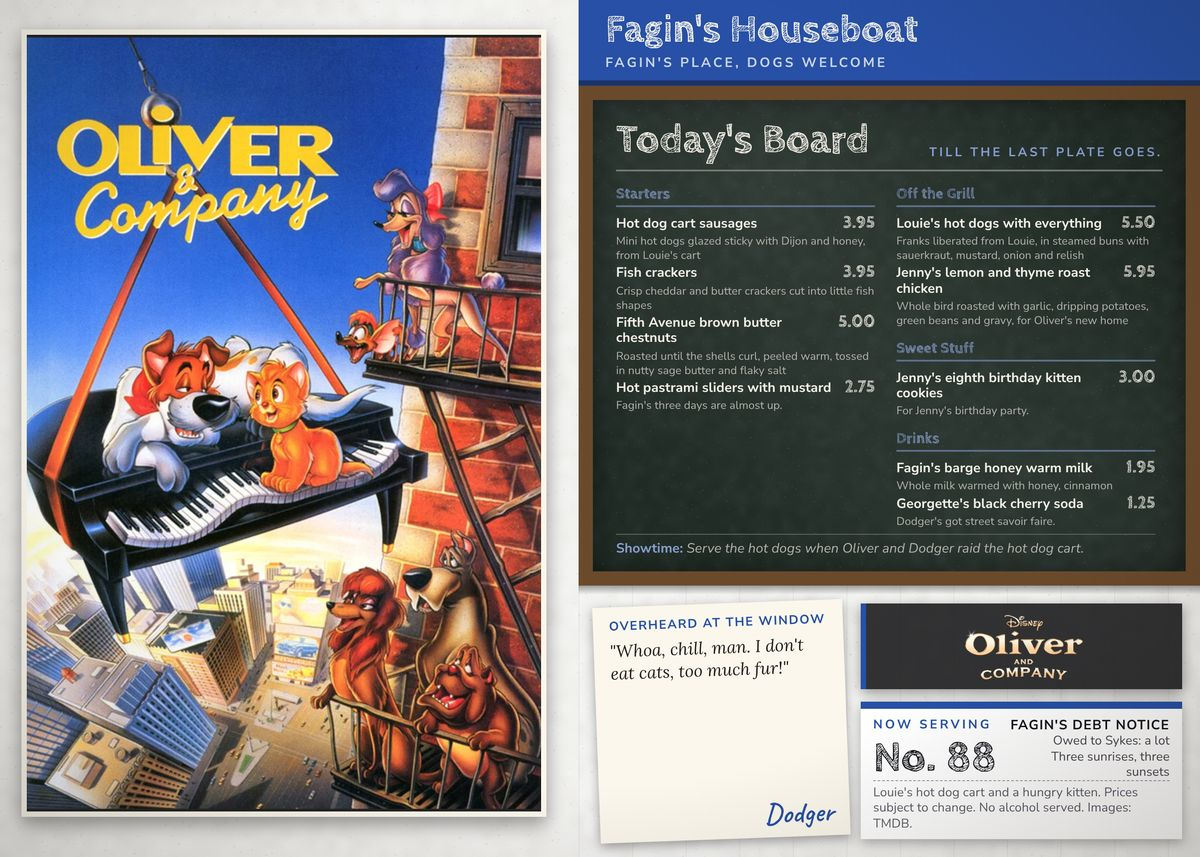
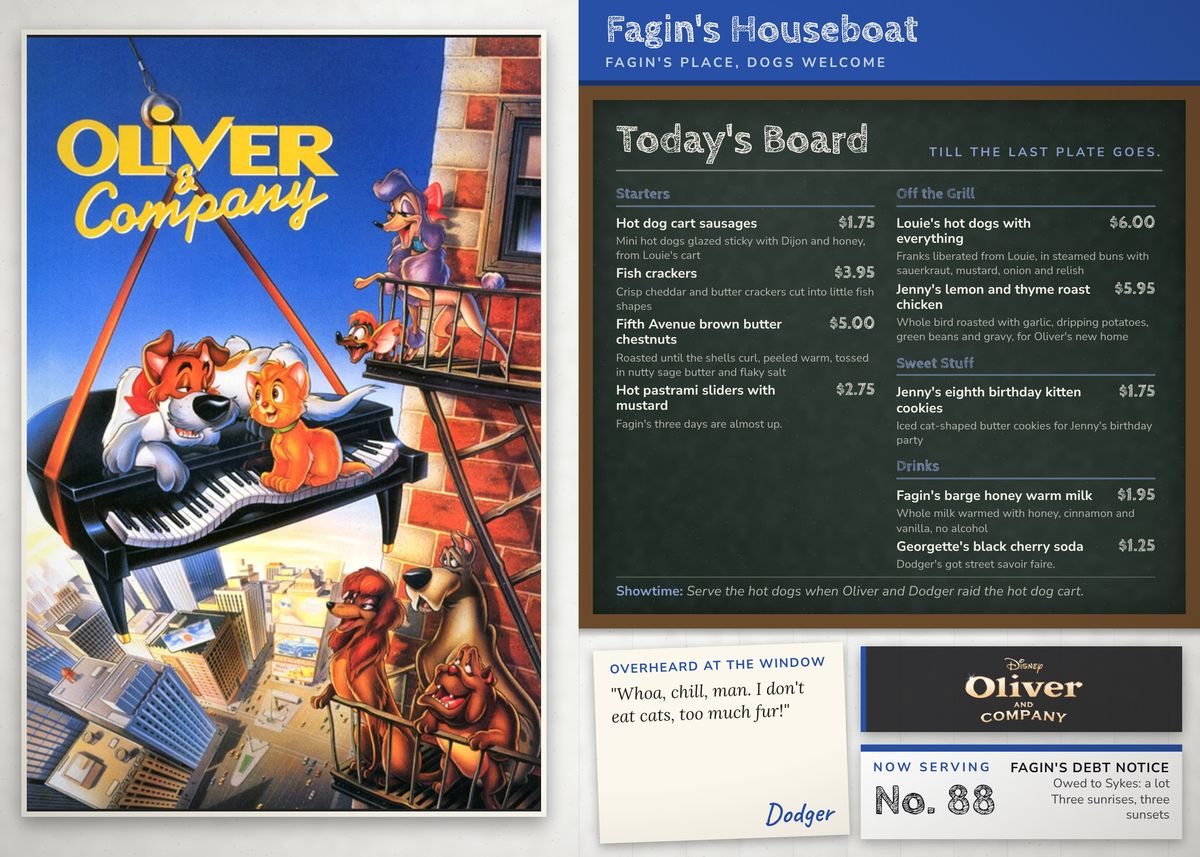
Review 32: truck board prints full notes
Claude-Session: https://claude.ai/code/session_01W3UAnF3374TxihYSznsWKE

Changed region(s): [[0.4625, 0.2427, 1.0, 0.9708], [0.6783, 0.2427, 0.7092, 0.273]]

diff --git a/menu-formats/truck.js b/menu-formats/truck.js
@@ -122,7 +122,7 @@ window.MENU_FORMATS[ID]=ctx=>{
     <div style="position:absolute;left:${PXL}px;top:${PTOP}px;width:${PWI}px;height:${PHI}px;border:${PB}px solid ${darkTruck?"#e9e5d8":"#fbf7ec"};background:#222;overflow:hidden;box-shadow:0 8px 20px rgba(0,0,0,.4)">${heroSrc?(posSrc?`<img src="${posSrc}" crossorigin="anonymous" alt="" style="position:absolute;inset:0;width:100%;height:100%;object-fit:contain;display:block">${t.shine||ei>=6?`<div style="position:absolute;inset:0;background:linear-gradient(125deg,rgba(255,255,255,.16) 0%,rgba(255,255,255,0) 38%)"></div>`:""}`:photo(heroSrc,pf,"center 40%",overlay())):""}</div></div>`;
 
   /* right: the board (signature) */
-  const RX=HX,boardH=560;
+  const RX=HX;let boardH=560;
   const C=[["s",e.cols[0]],["m",e.cols[1]],["w",e.cols[2]],["d",fl.drinksHeading||e.cols[3]]].filter(([k])=>(ctx.menu[k]||[]).length);
   const items={};C.forEach(([k])=>items[k]=(ctx.menu[k]||[]).slice(0,4));
   const pr=prices(items,e,ei,egg);
@@ -130,8 +130,9 @@ window.MENU_FORMATS[ID]=ctx=>{
   const CWall=RW-2*fw-2*pad-8,colGap=24,mTop=96;
   /* the showtime cue, a short line along the foot of the board (8 Nov: truck never printed it) */
   const cue=tx(f.P||"").trim(),cueN=cue?Math.min(2,wrapLines("Showtime: "+cue,15,CWall,e.cw)):0,cueH=cueN?cueN*15*1.3+12:0;
-  const menuH=boardH-2*fw-mTop-18-cueH;
-  const tiers=[{d:30,n:21,g:16,h:34,nl:2},{d:28,n:20,g:14,h:32,nl:2},{d:26,n:19,g:12,h:30,nl:2},{d:24,n:18,g:10,h:27,nl:1},{d:22,n:17,g:8,h:25,nl:1},{d:20,n:15,g:6,h:22,nl:1},{d:19,n:14,g:5,h:21,nl:1},{d:18,n:14,g:4,h:20,nl:1},{d:17,n:13,g:3,h:19,nl:1},{d:17,n:13,g:2,h:19,nl:1,sh:1},{d:16,n:13,g:2,h:18,nl:1,sh:1},{d:15,n:12.5,g:1,h:17,nl:1,sh:1},{d:20,n:15,g:6,h:22,nl:0},{d:18,n:14,g:4,h:20,nl:0},{d:16,n:14,g:3,h:18,nl:0}];
+  let menuH=boardH-2*fw-mTop-18-cueH;
+  /* review 32 (Josh: room for full notes): whole notes (up to four lines) are tried at every size before the two and one-line tiers */
+  const tiers=[...[[30,21,16,34],[28,20,14,32],[26,19,12,30],[24,18,10,27],[22,17,8,25],[20,15,6,22],[19,14,5,21],[18,14,4,20],[17,13,3,19],[16,13,2,18],[15,12.5,2,17]].map(([d,n,g,h])=>({d,n,g,h,nl:4})),{d:30,n:21,g:16,h:34,nl:2},{d:28,n:20,g:14,h:32,nl:2},{d:26,n:19,g:12,h:30,nl:2},{d:24,n:18,g:10,h:27,nl:1},{d:22,n:17,g:8,h:25,nl:1},{d:20,n:15,g:6,h:22,nl:1},{d:19,n:14,g:5,h:21,nl:1},{d:18,n:14,g:4,h:20,nl:1},{d:17,n:13,g:3,h:19,nl:1},{d:17,n:13,g:2,h:19,nl:1,sh:1},{d:16,n:13,g:2,h:18,nl:1,sh:1},{d:15,n:12.5,g:1,h:17,nl:1,sh:1},{d:20,n:15,g:6,h:22,nl:0},{d:18,n:14,g:4,h:20,nl:0},{d:16,n:14,g:3,h:18,nl:0}];
   let dmax=3;const priceW=d=>d*(ei>=6?1.5:2.5)+8;
   let CW=CWall;
   const cH=(tr,k)=>tr.h*1.3+14+items[k].reduce((a,it)=>{const dl=Math.min(dmax,wrapLines(tx(it.n),tr.d,CW-priceW(tr.d),e.cwd*(e.caps?1.12:1)));const nl=tr.nl?Math.min(tr.nl,wrapLines(tx(it.note),tr.n,CW,e.cw)):0;return a+dl*tr.d*1.15+nl*tr.n*1.3+(nl?3:0)+tr.g},0);
@@ -141,10 +142,15 @@ window.MENU_FORMATS[ID]=ctx=>{
      so they fit against the menu height without the 8 per cent margin; the smallest one is kept even when the estimate says no,
      so every dish keeps a one-line note (cut at a break on screen by libUnclip) and the name-only tiers are only for menus with no notes */
   const anyNote=C.some(([k])=>items[k].some(it=>clean(it.note).trim()));
+  /* review 32: when no whole-note tier fits the board, the board takes 48px from the order window below before notes are cut */
+  {const fitsFull=()=>tiers.filter(x=>x.nl>=4).some(x=>{CW=CWall;if(C.reduce((a,[k])=>a+cH(x,k),0)*.9<=menuH)return true;CW=(CWall-colGap)/2;return split(x).m*.9<=menuH});
+   if(anyNote&&!fitsFull()){boardH+=48;menuH+=48}}
   for(const x of tiers){if(x.sh){CW=CWall;const h1=C.reduce((a,[k])=>a+cH(x,k),0);if(h1<=menuH){tr=x;sp={s:C.length,m:h1};one=true;break}
       CW=(CWall-colGap)/2;const q=split(x);if(q.m<=menuH||(anyNote&&!tiers[tiers.indexOf(x)+1].sh)){tr=x;sp=q;break}continue}
-    CW=CWall;const h1=C.reduce((a,[k])=>a+cH(x,k),0);if(h1*1.08<=menuH){tr=x;sp={s:C.length,m:h1};one=true;break}
-    CW=(CWall-colGap)/2;const q=split(x);if(q.m*1.08<=menuH){tr=x;sp=q;break}}
+    /* review 32: the whole-note tiers trust the estimate a little (it runs high on this board) and lean on the runtime shrink (--k) */
+    const mg=x.nl>=4?.9:1.08;
+    CW=CWall;const h1=C.reduce((a,[k])=>a+cH(x,k),0);if(h1*mg<=menuH){tr=x;sp={s:C.length,m:h1};one=true;break}
+    CW=(CWall-colGap)/2;const q=split(x);if(q.m*mg<=menuH){tr=x;sp=q;break}}
   if(!sp){dmax=2;CW=(CWall-colGap)/2;sp=split(tr)}
   const cgap=12+Math.min(48,Math.max(0,menuH-sp.m*1.08)/Math.max(1,C.length));
   const head=l=>e.board==="enamel"?`<div style="font:${e.dw} ${tr.h}px/1.1 ${DF};color:${bacc};border-bottom:3px double ${bacc};padding-bottom:2px;margin-bottom:8px">${l}</div>`
@@ -153,7 +159,7 @@ window.MENU_FORMATS[ID]=ctx=>{
     :`<div style="display:inline-block;font:700 ${tr.h-4}px/1.1 ${DF};color:${e.bbg};background:${bacc};padding:4px 12px;margin-bottom:10px;border-radius:6px">${l}</div>`;
   const course=([k,l])=>`<div style="margin-bottom:${cgap}px">${head(l)}${items[k].map((it,i)=>{const nl=tr.nl?Math.min(tr.nl,wrapLines(tx(it.note),tr.n,CW,e.cw)):0;return `<div style="margin-bottom:calc(${tr.g}px*var(--k,1))">
       <div style="display:flex;justify-content:space-between;align-items:baseline;gap:10px"><span style="flex:1;font:700 calc(${tr.d}px*var(--k,1))/1.15 ${BF};color:${e.btx};${UP()}${clamp(dmax)}">${esc(tx(it.n))}</span><span style="font:${e.pw} calc(${tr.d+4}px*var(--k,1))/1 ${PF};color:${e.board==="enamel"?bacc:e.btx};white-space:nowrap">${pr[k][i]}</span></div>
-      ${nl?`<div data-fnote style="font:400 calc(${tr.n}px*var(--k,1))/1.3 ${BF};color:${bsoft};margin-top:3px;${clamp(nl)}">${esc(cap(tx(it.note)))}</div>`:""}</div>`}).join("")}</div>`;
+      ${nl?`<div data-fnote style="font:400 calc(${tr.n}px*var(--k,1))/1.3 ${BF};color:${bsoft};margin-top:3px;${clamp(tr.nl>=4?6:nl)}">${esc(cap(tx(it.note)))}</div>`:""}</div>`}).join("")}</div>`;
   const colA=C.slice(0,sp.s).map(course).join(""),colB=C.slice(sp.s).map(course).join("");
   const boardTex=e.board==="letter"?`<div style="position:absolute;inset:0;background:repeating-linear-gradient(0deg,rgba(255,255,255,.05) 0 2px,rgba(0,0,0,0) 2px 10px)"></div>`
     :e.board==="chalk"?`<div style="position:absolute;inset:0;background:radial-gradient(ellipse at 30% 20%,rgba(255,255,255,.08),rgba(255,255,255,0) 60%),radial-gradient(ellipse at 70% 80%,rgba(255,255,255,.06),rgba(255,255,255,0) 55%)"></div><div style="position:absolute;inset:0;background:url(${grain}) center/900px auto;opacity:.9;mix-blend-mode:screen;filter:invert(1)"></div>`
@@ -183,7 +189,7 @@ window.MENU_FORMATS[ID]=ctx=>{
     <div style="display:flex;gap:12px;align-items:flex-start;justify-content:space-between">
     <div style="flex:0 0 auto">${kick("Now serving",acc,14)}<div style="font:${e.dw} ${num.slice(-4).length>=4?36:num.slice(-4).length===3?42:48}px/1 ${DF};color:#15171c;margin-top:4px;white-space:nowrap">No. ${esc(num.slice(-4))}</div></div>
     <div style="flex:1;min-width:0;text-align:right"><div style="font:700 15px/1.15 ${BF};color:#15171c;text-transform:uppercase;letter-spacing:.06em;${clamp(1)}">${esc(prop.title)}</div>
-    ${(prop.lines||[]).slice(0,2).map(l=>`<div style="font:400 14px/1.25 ${BF};color:#44464d;${clamp(1)}">${esc(l)}</div>`).join("")}</div></div>
+    ${(prop.lines||[]).slice(0,boardH>560?1:2).map(l=>`<div style="font:400 14px/1.25 ${BF};color:#44464d;${clamp(1)}">${esc(l)}</div>`).join("")}</div></div>
     <div style="font:400 14px/1.25 ${BF};color:#5a5d66;border-top:1px dashed #9a9ca3;padding-top:4px;${clamp(2)}">${winks[0]?esc(winks[0])+". ":""}Prices subject to change.${fam?" No alcohol served.":""} Images: TMDB.</div></div>`;
   const windowArea=`<div style="position:absolute;left:${RX}px;top:${WY}px;width:${RW}px;height:${WH}px;background:${truck};overflow:hidden">
     <div style="position:absolute;inset:0;background:url(${grain}) center/1200px auto;opacity:${(.2+t.wear).toFixed(2)}"></div>
